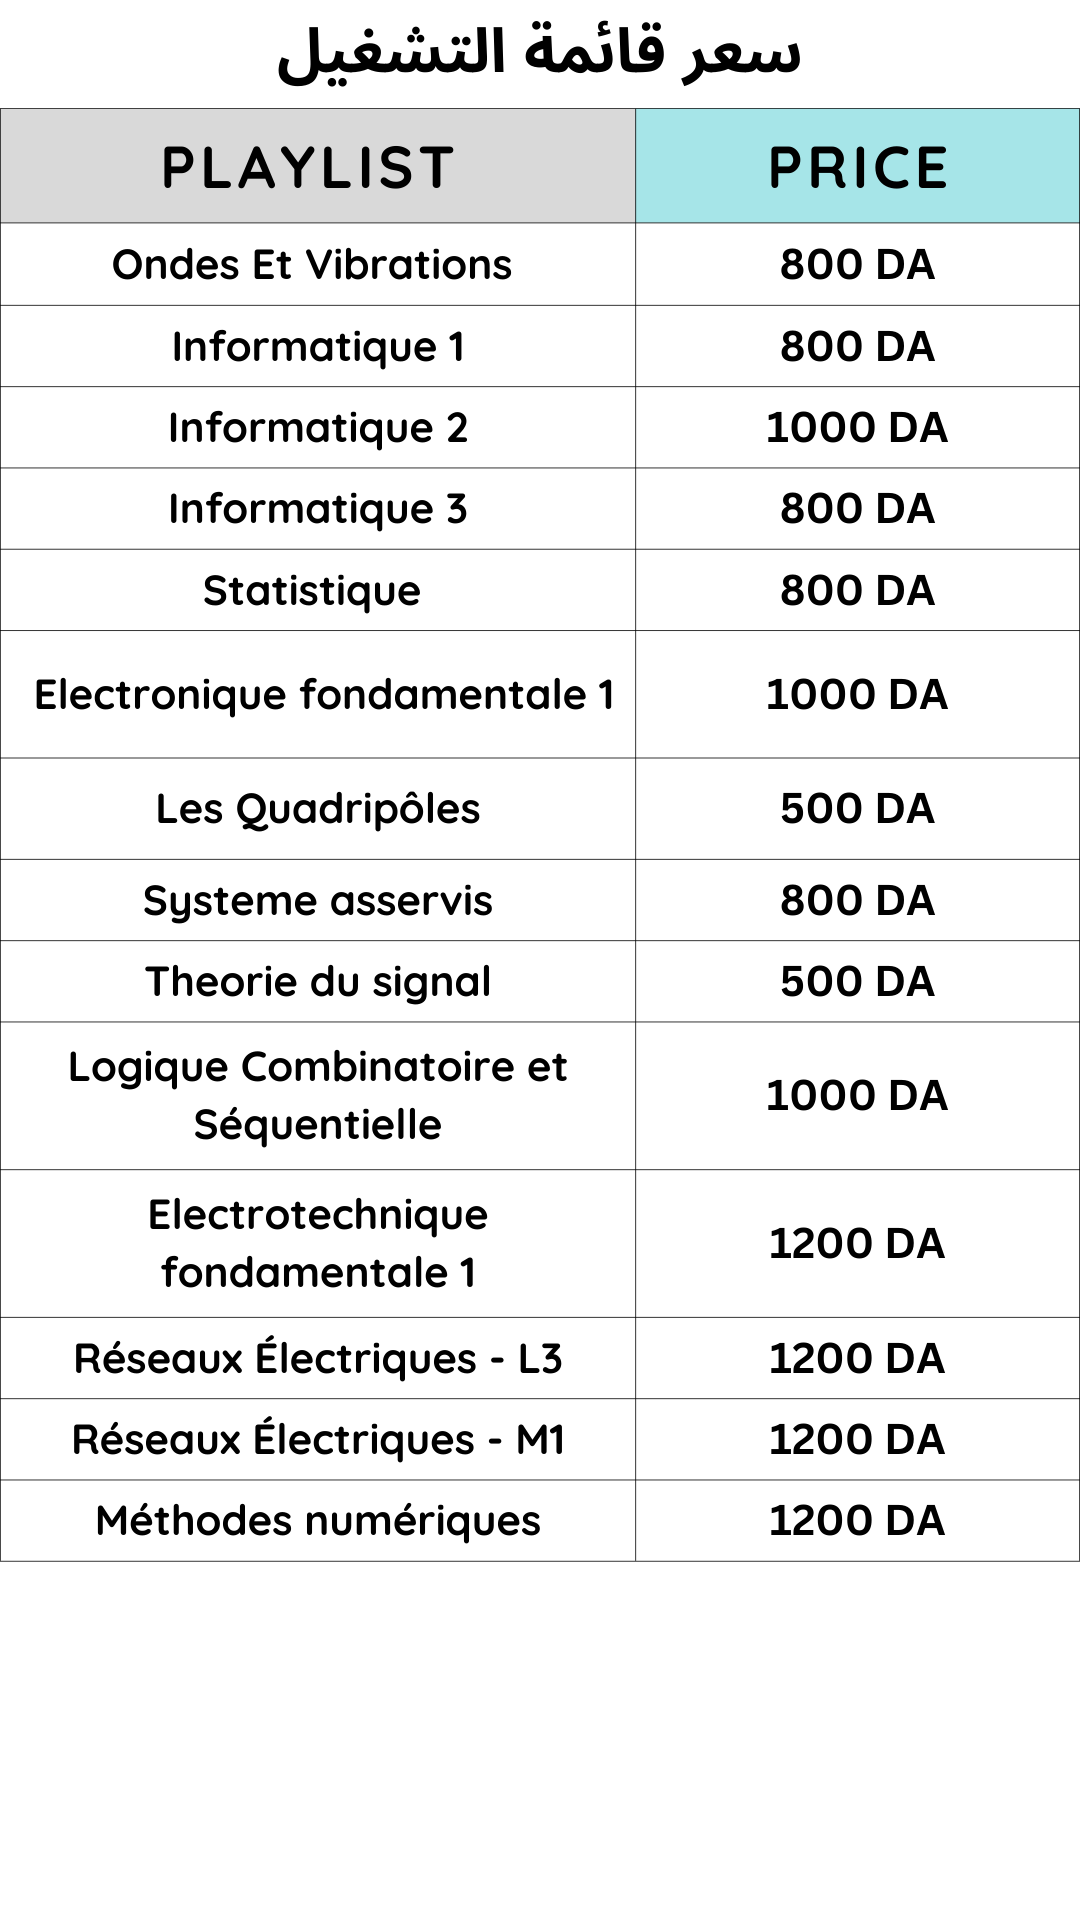
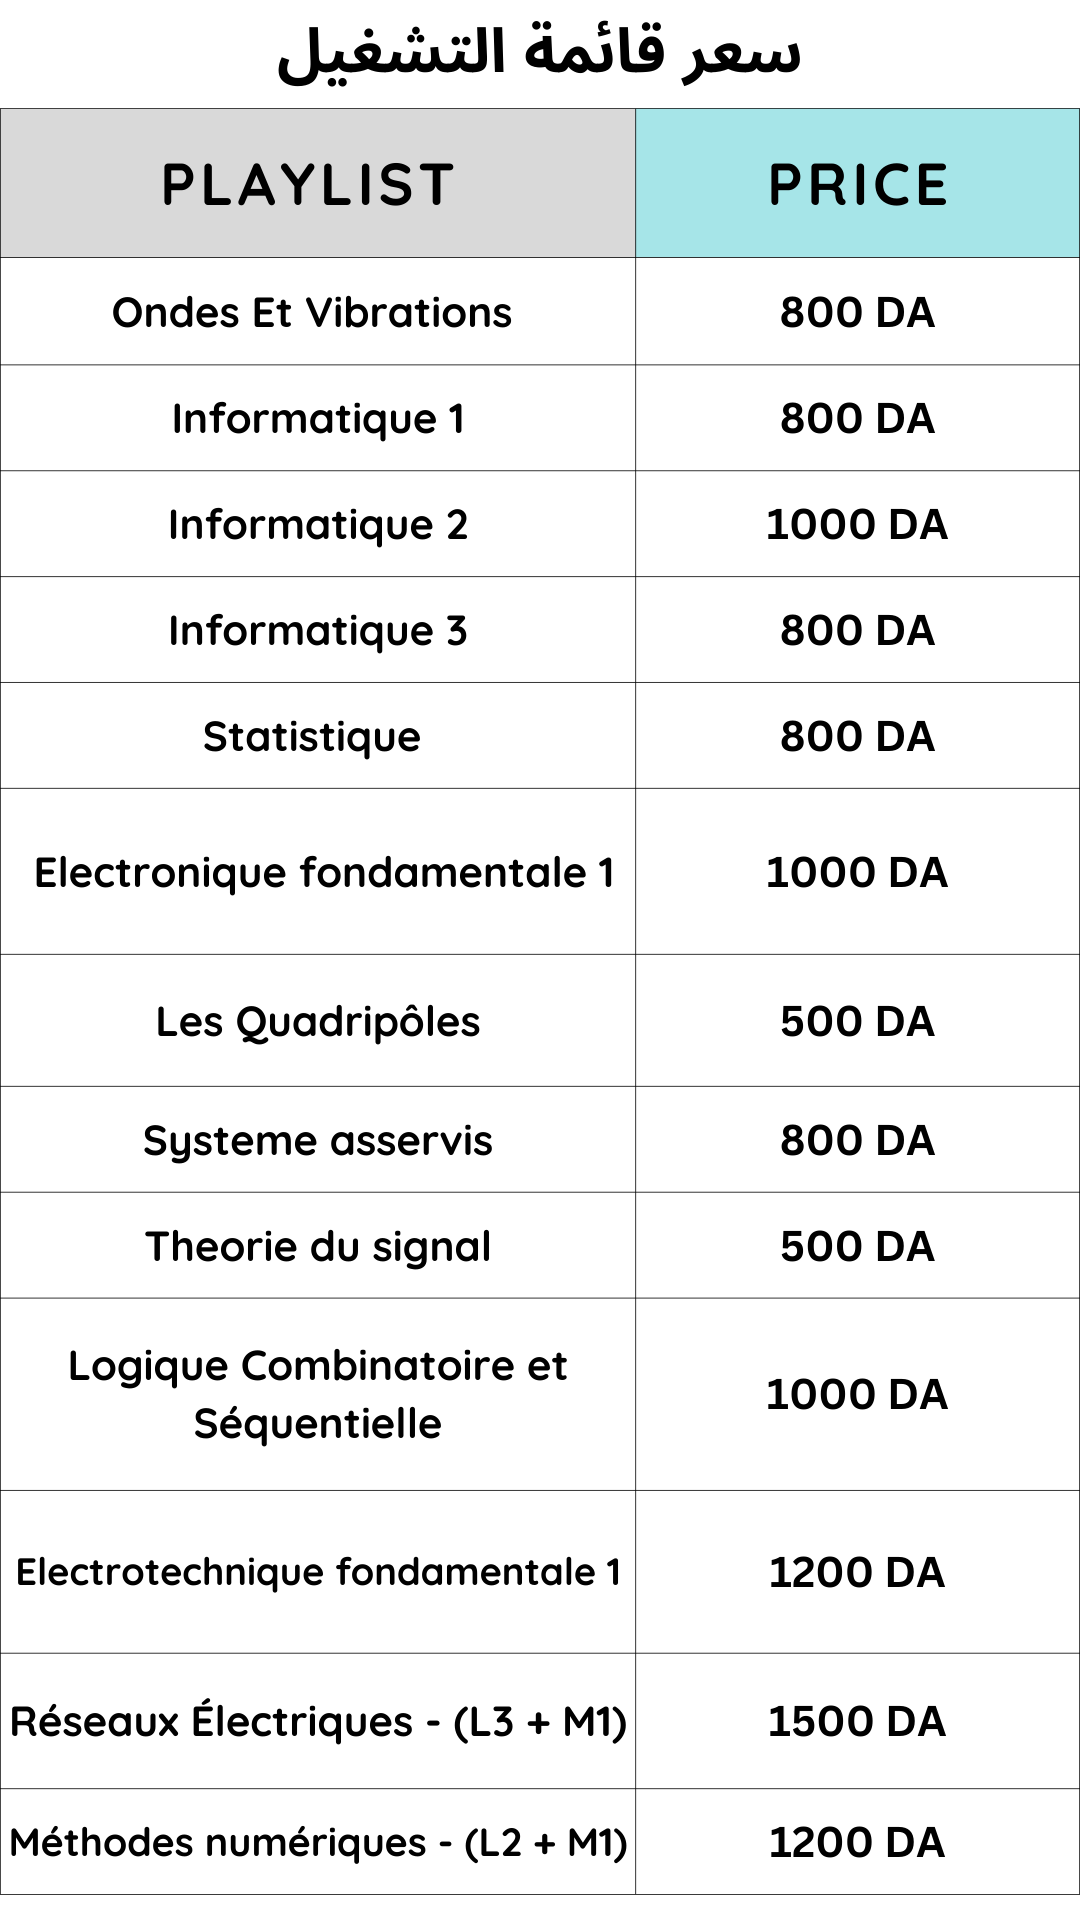
summary

diff --git a/reseaux_electriques.html b/reseaux_electriques.html
@@ -60,7 +60,7 @@
                             <li><a href="/Theorie_du_signal.html">Theorie du signal</a></li>
                             <li><a href="/Logique_Combinatoire_et_Séquentielle.html">Logique Combinatoire et Séquentielle</a></li>
                             <li><a href="/Electrotechnique_fondamentale1.html">Electrotechnique fondamentale 1</a></li>
-                            <li><a href="/reseaux_electriques.html">Réseaux Électriques L3</a></li>
+                            <li><a href="/reseaux_electriques.html">Réseaux Électriques (L3 + M1)</a></li>
                             <li><a href="/methodenumerique.html">Méthodes Numériques (L2 + M1)</a></li>
                             <li><a href="/Machine_electrique.html">Machines électriques (L2, L3, M1)</a></li>
                         </ul>
@@ -86,11 +86,85 @@
                   </p>            </p>
             
                 <div class="parent-container">
-                    <a href="price/price.html" class="cta-btn" target="_blank">Buy Now - 1200 دج</a>
+                    <a href="price/price.html" class="cta-btn" target="_blank">Buy Now - 1500 دج</a>
                 </div>
             </p>
             <div class="video-list">
                 <!-- Video Items -->
+
+<!-- Video Item 14 -->
+<div class="video-item">
+    <h3>Réseaux Électriques - TD01 Exercice 01 - en arabe</h3>
+    <div class="video-thumbnail-container" onclick="window.location.href='project-folder/index.html'">
+        <img src="reseau_electrique/14.jpg" alt="Video Thumbnail">
+        <div class="overlay">
+            <span class="play-button">&#9654;</span>
+        </div>
+        <p>Click to start watching</p>
+    </div>
+</div>
+
+<!-- Video Item 15 -->
+<div class="video-item">
+    <h3>Réseaux Électriques - TD01 Exercice 02 - en arabe</h3>
+    <div class="video-thumbnail-container" onclick="window.location.href='project-folder/index.html'">
+        <img src="reseau_electrique/15.jpg" alt="Video Thumbnail">
+        <div class="overlay">
+            <span class="play-button">&#9654;</span>
+        </div>
+        <p>Click to start watching</p>
+    </div>
+</div>
+
+<!-- Video Item 16 -->
+<div class="video-item">
+    <h3>Réseaux Électriques - TD01 Exercice 03 - en arabe</h3>
+    <div class="video-thumbnail-container" onclick="window.location.href='project-folder/index.html'">
+        <img src="reseau_electrique/16.jpg" alt="Video Thumbnail">
+        <div class="overlay">
+            <span class="play-button">&#9654;</span>
+        </div>
+        <p>Click to start watching</p>
+    </div>
+</div>
+
+<!-- Video Item 17 -->
+<div class="video-item">
+    <h3>Réseaux Électriques - TD01 Exercice 04 - en arabe</h3>
+    <div class="video-thumbnail-container" onclick="window.location.href='project-folder/index.html'">
+        <img src="reseau_electrique/17.webp" alt="Video Thumbnail">
+        <div class="overlay">
+            <span class="play-button">&#9654;</span>
+        </div>
+        <p>Click to start watching</p>
+    </div>
+</div>
+
+<!-- Video Item 18 -->
+<div class="video-item">
+    <h3>Réseaux Électriques - TD01 Exercice 05 - en arabe</h3>
+    <div class="video-thumbnail-container" onclick="window.location.href='project-folder/index.html'">
+        <img src="reseau_electrique/18.jpg" alt="Video Thumbnail">
+        <div class="overlay">
+            <span class="play-button">&#9654;</span>
+        </div>
+        <p>Click to start watching</p>
+    </div>
+</div>
+
+<!-- Video Item 19 -->
+<div class="video-item">
+    <h3>شرح طريقة حساب التيار وتمثيل التوتر في diagramme de Fresnel</h3>
+    <div class="video-thumbnail-container" onclick="window.location.href='project-folder/index.html'">
+        <img src="reseau_electrique/19.jpg" alt="Video Thumbnail">
+        <div class="overlay">
+            <span class="play-button">&#9654;</span>
+        </div>
+        <p>Click to start watching</p>
+    </div>
+</div>
+
+
   <!-- Video Item 1 -->
 <div class="video-item">
     <h3>Résumé Réseaux Électriques : GMD, GMR, L, C - Ligne Monophasée et Triphasée Partie 01</h3>
@@ -247,6 +321,35 @@
     </div>
 </div>
 
+
+
+<!-- Video Item 20 -->
+<div class="video-item">
+    <h3>Machine Synchrone Mode Alternateur en arabe</h3>
+    <div class="video-thumbnail-container" onclick="window.location.href='project-folder/index.html'">
+        <img src="reseau_electrique/20.webp" alt="Video Thumbnail">
+        <div class="overlay">
+            <span class="play-button">&#9654;</span>
+        </div>
+        <p>Click to start watching</p>
+    </div>
+</div>
+
+<!-- Video Item 21 -->
+<div class="video-item">
+    <h3>حل تمرين شامل Concours Sonatrach</h3>
+    <div class="video-thumbnail-container" onclick="window.location.href='project-folder/index.html'">
+        <img src="reseau_electrique/21.jpg" alt="Video Thumbnail">
+        <div class="overlay">
+            <span class="play-button">&#9654;</span>
+        </div>
+        <p>Click to start watching</p>
+    </div>
+</div>
+
+
+
+
     </section>
 
     
@@ -256,8 +359,8 @@
         <div class="sheets-container">
             <!-- Sheet 1 -->
             <div class="sheet">
-                <a href="pdf1200.pdf" target="_blank">
-                    <img src="rec1200.png" alt="Registration Process Step 1" />
+                <a href="pdf1500.pdf" target="_blank">
+                    <img src="rec1500.png" alt="Registration Process Step 1" />
                 </a>
             </div>
         </div>

diff --git a/project-folder/Reseaux_Electriques L2.html b/project-folder/Reseaux_Electriques L2.html
@@ -6,7 +6,7 @@
     <title>انتقال إلى قائمة تشغيل يوتيوب</title>
     <script type="text/javascript">
         window.onload = function() {
-            window.location.href = "https://www.youtube.com/watch?v=b5UhPfjfoEU&list=PL4pQYykjWKaPg2oigUjqoMJ6tv2nJXMqT&index=6", "_blank";
+            window.location.href = "https://www.youtube.com/watch?v=pfKb3HNSm0Q&list=PL4pQYykjWKaOOCVxYAznr9Ojz3qmg3w-h&index=1", "_blank";
         };
     </script>
 </head>

diff --git a/methodenumerique.html b/methodenumerique.html
@@ -153,7 +153,7 @@
             <div class="video-list">
 <!-- Video Item 1 -->
 <div class="video-item">
-    <h3>EP02 La méthode d'Euler - شرح</h3>
+    <h3> La méthode d'Euler - شرح</h3>
     <div class="video-thumbnail-container" onclick="window.location.href='project-folder/index.html'">
         <img src="methode numerique/06.jpg" alt="Video Thumbnail">
         <div class="overlay">
